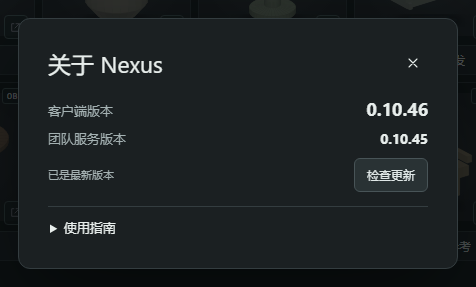
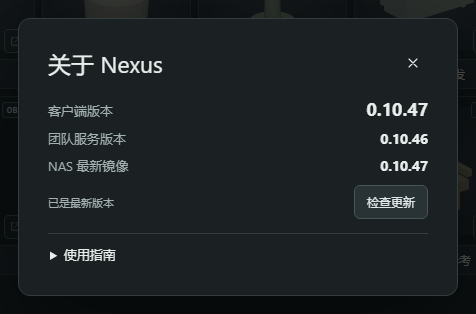
Show update badges and report the latest stable NAS image

diff --git a/public/app.js b/public/app.js
@@ -2152,7 +2152,10 @@ for (const selector of ['#settings', '#connection-summary']) {
     dccConnections.show();
   });
 }
-const nexusUpdater = initNexusUpdater({api,enabled:native,panel:$('#nexus-updater'),indicator:$('#about-button')});
+const nexusUpdater = initNexusUpdater({
+  api, enabled:native, panel:$('#nexus-updater'),
+  indicators:[topTools.querySelector('summary'), $('#about-button'), $('#sidebar-version')],
+});
 let aboutTeamVersionRequest = 0;
 for (const id of ['#about-button', '#sidebar-version']) {
   $(id).addEventListener('click', () => {
@@ -2162,29 +2165,36 @@ for (const id of ['#about-button', '#sidebar-version']) {
     showTeamServiceVersion();
   });
 }
-async function showTeamServiceVersion() {
+function showTeamServiceVersion() {
   const request = ++aboutTeamVersionRequest;
-  const teamId = native && team.active ? team.info?.team.id : null;
-  const row = $('#about-team-version-row');
-  const value = $('#about-team-version');
-  row.hidden = !teamId;
-  value.textContent = '';
-  if (!teamId) return;
+  const teamId = native && team.active ? team.info?.team?.id : null;
   const epoch = team.epoch;
-  value.textContent = '正在读取…';
-  let version;
-  try {
+
+  async function displayVersion(selector, readVersion) {
+    const row = $(`${selector}-row`);
+    const value = $(selector);
+    row.hidden = !teamId;
+    value.textContent = teamId ? '正在读取…' : '';
+    if (!teamId) return;
+    let version;
+    try {
+      version = await readVersion();
+    } catch {
+      version = '暂时无法读取';
+    }
+    if (request !== aboutTeamVersionRequest) return;
+    if (!team.active || team.epoch !== epoch || team.info?.team?.id !== teamId) {
+      row.hidden = true;
+      return;
+    }
+    value.textContent = version;
+  }
+
+  displayVersion('#about-team-version', async () => {
     const result = await api('team_service_info', {teamId});
-    version = result?.serverVersion || '版本未上报';
-  } catch {
-    version = '暂时无法读取';
-  }
-  if (request !== aboutTeamVersionRequest) return;
-  if (!team.active || team.epoch !== epoch || team.info?.team.id !== teamId) {
-    row.hidden = true;
-    return;
-  }
-  value.textContent = version;
+    return result?.serverVersion || '服务未提供版本号';
+  });
+  displayVersion('#about-team-latest', () => api('latest_team_service_version'));
 }
 async function showClientVersion() {
   const version = $('#about-version');

diff --git a/public/nexus-updater.js b/public/nexus-updater.js
@@ -1,16 +1,22 @@
-export function initNexusUpdater({api, enabled, panel, indicator}) {
+export function initNexusUpdater({api, enabled, panel, indicators}) {
   if (!enabled) return {opened() {}};
   panel.hidden = false;
   const button = panel.querySelector('button');
   const status = panel.querySelector('[role="status"]');
+  const indicatorTitles = indicators.map(indicator => indicator.title);
   let update;
   let busy = false;
   let lastCheck = 0;
 
   function showUpdate() {
     const version = update?.available && update.version;
-    indicator.classList.toggle('has-nexus-update',Boolean(version));
-    indicator.title = version ? `Nexus ${version} 可更新` : '';
+    const notice = version ? `Nexus ${version} 可更新` : '';
+    indicators.forEach((indicator, index) => {
+      indicator.classList.toggle('has-nexus-update', Boolean(version));
+      indicator.title = notice || indicatorTitles[index];
+      if (notice) indicator.setAttribute('aria-description', notice);
+      else indicator.removeAttribute('aria-description');
+    });
     button.classList.toggle('primary',Boolean(version));
     button.classList.toggle('subtle',!version);
     button.textContent = version ? '下载更新' : '检查更新';

diff --git a/public/workbench.css b/public/workbench.css
@@ -180,7 +180,14 @@
 .about-updates { display: flex; align-items: center; justify-content: space-between; gap: 10px; margin-top: 10px; color: var(--muted); font-size: 11px; }
 .about-updates[hidden] { display: none; }
 .about-updates .button { flex: none; }
-#about-button.has-nexus-update::after { content: ""; width: 6px; height: 6px; margin-inline-start: auto; border-radius: 50%; background: var(--accent); }
+:is(.top-tools > summary, #about-button, .version-link).has-nexus-update { position: relative; }
+:is(.top-tools > summary, #about-button, .version-link).has-nexus-update::after {
+  content: ""; position: absolute; width: 7px; height: 7px; pointer-events: none;
+  border-radius: 50%; background: #e65359;
+}
+.top-tools > summary.has-nexus-update::after { inset: 3px 3px auto auto; }
+#about-button.has-nexus-update::after { inset: calc(50% - 3.5px) 10px auto auto; }
+.version-link.has-nexus-update::after { inset: 0 -10px auto auto; }
 .about-guide { margin-top: 14px; border-top: 1px solid var(--line); }
 .about-guide summary { padding: 12px 2px 3px; cursor: pointer; color: var(--text); }
 .about-guide summary:focus-visible { outline: 2px solid var(--accent); outline-offset: 2px; }

diff --git a/public/index.html b/public/index.html
@@ -618,6 +618,7 @@
   <div class="modal-header"><h2 id="about-title">关于 Nexus</h2><button type="button" class="icon-button close-modal" aria-label="关闭"><svg aria-hidden="true"><use href="#i-close"/></svg></button></div>
   <p class="about-version"><span>客户端版本</span> <strong id="about-version">正在读取…</strong></p>
   <p class="about-version about-team-version" id="about-team-version-row" hidden><span>团队服务版本</span> <strong id="about-team-version" role="status"></strong></p>
+  <p class="about-version about-team-version" id="about-team-latest-row" hidden><span>NAS 最新镜像</span> <strong id="about-team-latest" role="status"></strong></p>
   <section id="nexus-updater" class="about-updates" aria-label="应用更新" hidden>
     <span role="status">从 GitHub 获取应用更新</span>
     <button type="button" class="button subtle">检查更新</button>

diff --git a/src-tauri/src/team_update_version.rs b/src-tauri/src/team_update_version.rs
@@ -1,0 +1,183 @@
+use reqwest::{header, Client, Response, StatusCode, Url};
+use serde::Deserialize;
+use sha2::{Digest, Sha256};
+use std::{collections::HashMap, time::Duration};
+
+const REGISTRY_IMAGE: &str = "https://ghcr.io/v2/jugui-lin/nexus-team";
+const RELEASE_SOURCE: &str = "https://github.com/Jugui-Lin/nexus-assets";
+const OCI_MANIFEST: &str = "application/vnd.oci.image.manifest.v1+json";
+const DOCKER_MANIFEST: &str = "application/vnd.docker.distribution.manifest.v2+json";
+const MAX_CHUNKED_BYTES: usize = 64 * 1024;
+
+#[derive(Deserialize)]
+struct AnonymousToken {
+    token: String,
+}
+
+#[derive(Deserialize)]
+#[serde(rename_all = "camelCase")]
+struct Manifest {
+    schema_version: u8,
+    media_type: String,
+    config: BlobDescriptor,
+}
+
+#[derive(Deserialize)]
+struct BlobDescriptor {
+    digest: String,
+    size: usize,
+}
+
+#[derive(Deserialize)]
+struct ContainerConfig {
+    os: String,
+    architecture: String,
+    config: ImageConfig,
+}
+
+#[derive(Deserialize)]
+struct ImageConfig {
+    #[serde(rename = "Labels")]
+    labels: HashMap<String, String>,
+}
+
+async fn read_response(mut response: Response) -> Result<Vec<u8>, String> {
+    if !response.status().is_success() {
+        return Err(format!("NAS 镜像仓库返回 {}", response.status()));
+    }
+    if response
+        .content_length()
+        .is_some_and(|size| size > MAX_CHUNKED_BYTES as u64)
+    {
+        return Err("NAS 镜像版本信息过大".into());
+    }
+    let mut body = Vec::new();
+    while let Some(chunk) = response
+        .chunk()
+        .await
+        .map_err(|_| "无法读取 NAS 镜像版本")?
+    {
+        if chunk.len() > MAX_CHUNKED_BYTES - body.len() {
+            return Err("NAS 镜像版本信息过大".into());
+        }
+        body.extend_from_slice(&chunk);
+    }
+    Ok(body)
+}
+
+fn valid_stable_version(version: &str) -> bool {
+    let mut portions = version.split('.');
+    (0..3).all(|_| {
+        portions.next().is_some_and(|portion| {
+            portion.bytes().all(|byte| byte.is_ascii_digit())
+                && (portion.len() == 1 || !portion.starts_with('0'))
+                && portion.parse::<u64>().is_ok()
+        })
+    }) && portions.next().is_none()
+}
+
+async fn read_stable_version() -> Result<String, String> {
+    // This registry client never carries credentials or URLs from the connected NAS.
+    let client = Client::builder()
+        .https_only(true)
+        .redirect(reqwest::redirect::Policy::none())
+        .build()
+        .map_err(|_| "无法连接 NAS 镜像仓库")?;
+    let token_response = client
+        .get("https://ghcr.io/token?service=ghcr.io&scope=repository:jugui-lin/nexus-team:pull")
+        .send()
+        .await
+        .map_err(|_| "无法连接 NAS 镜像仓库")?;
+    let token: AnonymousToken = serde_json::from_slice(&read_response(token_response).await?)
+        .map_err(|_| "无法读取 NAS 镜像仓库的访问响应")?;
+
+    let manifest_response = client
+        .get(format!("{REGISTRY_IMAGE}/manifests/stable"))
+        .bearer_auth(&token.token)
+        .header(header::ACCEPT, format!("{OCI_MANIFEST}, {DOCKER_MANIFEST}"))
+        .header(header::CACHE_CONTROL, "no-cache")
+        .send()
+        .await
+        .map_err(|_| "无法获取 NAS 发布镜像")?;
+    let manifest: Manifest = serde_json::from_slice(&read_response(manifest_response).await?)
+        .map_err(|_| "NAS 发布镜像格式无效")?;
+    if manifest.schema_version != 2
+        || !matches!(manifest.media_type.as_str(), OCI_MANIFEST | DOCKER_MANIFEST)
+        || !manifest
+            .config
+            .digest
+            .strip_prefix("sha256:")
+            .is_some_and(|hash| {
+                hash.len() == 64
+                    && hash
+                        .bytes()
+                        .all(|byte| byte.is_ascii_digit() || (b'a'..=b'f').contains(&byte))
+            })
+        || !(1..=MAX_CHUNKED_BYTES).contains(&manifest.config.size)
+    {
+        return Err("NAS 发布镜像格式无效".into());
+    }
+
+    let mut blob = client
+        .get(format!("{REGISTRY_IMAGE}/blobs/{}", manifest.config.digest))
+        .bearer_auth(&token.token)
+        .send()
+        .await
+        .map_err(|_| "无法获取 NAS 发布镜像配置")?;
+    if blob.status() == StatusCode::TEMPORARY_REDIRECT {
+        let url = blob
+            .headers()
+            .get(header::LOCATION)
+            .and_then(|location| location.to_str().ok())
+            .and_then(|location| Url::parse(location).ok())
+            .filter(|url| {
+                url.scheme() == "https"
+                    && url.host_str() == Some("pkg-containers.githubusercontent.com")
+                    && url.username().is_empty()
+                    && url.password().is_none()
+                    && url.port().is_none()
+            })
+            .ok_or("NAS 镜像配置下载地址无效")?;
+        // The CDN URL is already signed by the registry. Don't forward its bearer token.
+        blob = client
+            .get(url)
+            .send()
+            .await
+            .map_err(|_| "无法下载 NAS 发布镜像配置")?;
+    }
+    let config_bytes = read_response(blob).await?;
+    let digest: String = Sha256::digest(&config_bytes)
+        .iter()
+        .map(|byte| format!("{byte:02x}"))
+        .collect();
+    if config_bytes.len() != manifest.config.size || digest != manifest.config.digest[7..] {
+        return Err("NAS 发布镜像配置校验失败".into());
+    }
+
+    let config: ContainerConfig =
+        serde_json::from_slice(&config_bytes).map_err(|_| "NAS 发布镜像配置无效")?;
+    if config.os != "linux"
+        || config.architecture != "amd64"
+        || !config
+            .config
+            .labels
+            .get("org.opencontainers.image.source")
+            .is_some_and(|source| source.eq_ignore_ascii_case(RELEASE_SOURCE))
+    {
+        return Err("NAS 镜像发布来源无效".into());
+    }
+    config
+        .config
+        .labels
+        .get("org.opencontainers.image.version")
+        .filter(|version| valid_stable_version(version))
+        .cloned()
+        .ok_or_else(|| "镜像仓库未提供 NAS 版本".into())
+}
+
+#[tauri::command]
+pub(crate) async fn latest_team_service_version() -> Result<String, String> {
+    tokio::time::timeout(Duration::from_secs(10), read_stable_version())
+        .await
+        .map_err(|_| "检查 NAS 最新版本超时".to_owned())?
+}

diff --git a/src-tauri/src/main.rs b/src-tauri/src/main.rs
@@ -49,6 +49,7 @@ mod team_desktop;
 mod team_host;
 mod team_import;
 mod team_nas;
+mod team_update_version;
 mod thumbnail_desktop;
 mod workspace_asset_deletion;
 mod workspace_data;
@@ -1069,6 +1070,7 @@ fn main() {
             personal_tags::delete_local_tag,
             team_desktop::team_status,
             team_desktop::team_service_info,
+            team_update_version::latest_team_service_version,
             team_desktop::team_online_members,
             team_desktop::team_get_profile,
             team_desktop::team_save_profile,

diff --git a/README.md b/README.md
@@ -11,9 +11,9 @@ Nexus 把本地磁盘和 NAS 上的模型、贴图、材质与视频放在同一
 | 操作 | 入口 |
 | --- | --- |
 | 首次安装 | 下载并运行 Windows x64 安装包。 |
-| 客户端更新 | 打开「关于 Nexus」并点击「下载更新」。客户端校验签名后安装并重启。也可以直接运行新版安装包，在原目录覆盖升级。 |
+| 客户端更新 | 设置按钮出现红点时，打开「关于 Nexus」并点击「下载更新」。客户端校验签名后安装并重启。也可以直接运行新版安装包，在原目录覆盖升级。 |
 | 卸载 | 打开 Windows「设置」→「应用」→「已安装的应用」，找到 Nexus Assets 并选择「卸载」。 |
-| 查看 NAS 版本 | 切到团队库，再打开「关于 Nexus」。其中的「团队服务版本」来自当前连接的服务。旧镜像会显示「版本未上报」。 |
+| 查看 NAS 版本 | 切到团队库，再打开「关于 Nexus」。「团队服务版本」来自当前连接的服务，「NAS 最新镜像」读取自动更新渠道的稳定版。旧服务需要先更新一次才能报告自身版本号。 |
 
 ![关于 Nexus 示例，客户端版本和团队服务版本分别显示](docs/screenshots/about-team-version.png)
 
